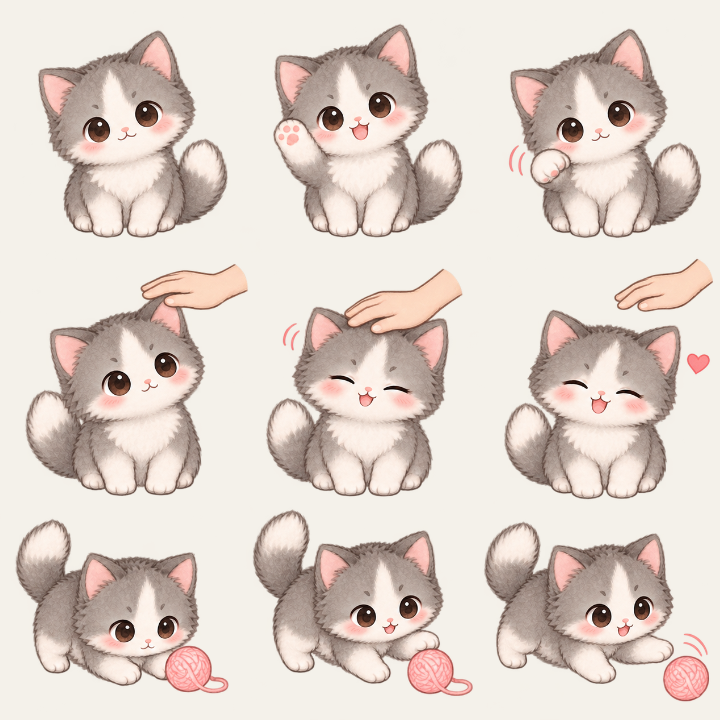
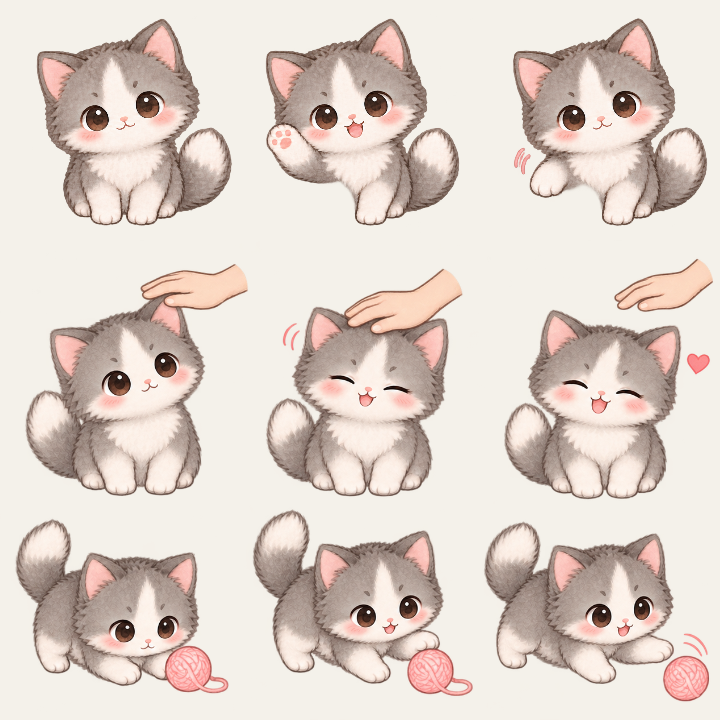
fix: correct wave animation anatomy

Changed region(s): [[0.7028, 0.0306, 1.0, 0.3361], [0.0306, 0.0306, 0.3361, 0.3361], [0.3667, 0.0306, 0.6417, 0.3361]]

diff --git a/src/Panel.xaml b/src/Panel.xaml
@@ -24,7 +24,7 @@ WindowStartupLocation="CenterScreen" Background="#F8F6F1" FontFamily="Microsoft 
 <Grid.RowDefinitions><RowDefinition Height="Auto"/><RowDefinition Height="22"/><RowDefinition Height="*"/><RowDefinition Height="Auto"/></Grid.RowDefinitions>
 <Grid>
 <StackPanel><TextBlock Text="T A M A G O   /   D E S K T O P   P E T" FontSize="10" Foreground="#89917B"/>
-<StackPanel Orientation="Horizontal" Margin="0,8,0,0"><TextBlock Text="玉子的小小世界" FontSize="26" FontWeight="SemiBold"/><Border Background="#ECEFE4" CornerRadius="8" Margin="14,5,0,5" Padding="10,4"><TextBlock Text="会感应你了 · v0.5" Foreground="#748263" FontSize="10"/></Border></StackPanel>
+<StackPanel Orientation="Horizontal" Margin="0,8,0,0"><TextBlock Text="玉子的小小世界" FontSize="26" FontWeight="SemiBold"/><Border Background="#ECEFE4" CornerRadius="8" Margin="14,5,0,5" Padding="10,4"><TextBlock Text="会感应你了 · v0.5.1" Foreground="#748263" FontSize="10"/></Border></StackPanel>
 <TextBlock Text="你忙你的，我会乖乖陪着你。" Margin="0,8,0,0" Foreground="#99938A" FontSize="12"/>
 </StackPanel>
 <Button x:Name="HidePanel" Content="收起面板 ↘" HorizontalAlignment="Right" VerticalAlignment="Top" Margin="0,7,0,0" Padding="14,9" Background="#F8F6F1"/>

diff --git a/src/App.cs b/src/App.cs
@@ -15,8 +15,8 @@ using System.Windows.Media.Imaging;
 using System.Windows.Threading;
 using Forms=System.Windows.Forms;
 
-[assembly: AssemblyVersion("0.5.0.0")]
-[assembly: AssemblyFileVersion("0.5.0.0")]
+[assembly: AssemblyVersion("0.5.1.0")]
+[assembly: AssemblyFileVersion("0.5.1.0")]
 
 namespace Tamago {
     static class Program {
@@ -67,8 +67,10 @@ namespace Tamago {
     public sealed class InteractionBank {
         public readonly BitmapSource[] Frames=new BitmapSource[8];
         public readonly BitmapSource[,] AnimationFrames=new BitmapSource[3,3];
+        public readonly BitmapSource[] WaveAnimationFrames=new BitmapSource[3];
         public readonly BitmapSource Atlas;
         public readonly BitmapSource AnimationAtlas;
+        public readonly BitmapSource WaveAnimationAtlas;
         public InteractionBank() {
             using(Stream input=Assembly.GetExecutingAssembly().GetManifestResourceStream("tamago-interactions.png")) {
                 if(input==null)throw new FileNotFoundException("缺少互动动作素材，请重新运行 build.ps1。");
@@ -91,6 +93,17 @@ namespace Tamago {
                 int right=(int)Math.Floor((col+1)*AnimationAtlas.PixelWidth/3.0), bottom=(int)Math.Floor((row+1)*AnimationAtlas.PixelHeight/3.0);
                 CroppedBitmap crop=new CroppedBitmap(AnimationAtlas,new Int32Rect(x,y,right-x,bottom-y));
                 crop.Freeze(); AnimationFrames[row,col]=crop;
+            }
+            using(Stream input=Assembly.GetExecutingAssembly().GetManifestResourceStream("tamago-wave-animation.png")) {
+                if(input==null)throw new FileNotFoundException("缺少挥手动画素材，请重新运行 build.ps1。");
+                PngBitmapDecoder decoder=new PngBitmapDecoder(input,BitmapCreateOptions.PreservePixelFormat,BitmapCacheOption.OnLoad);
+                WaveAnimationAtlas=decoder.Frames[0]; WaveAnimationAtlas.Freeze();
+            }
+            for(int col=0;col<3;col++) {
+                int x=(int)Math.Floor(col*WaveAnimationAtlas.PixelWidth/3.0);
+                int right=(int)Math.Floor((col+1)*WaveAnimationAtlas.PixelWidth/3.0);
+                CroppedBitmap crop=new CroppedBitmap(WaveAnimationAtlas,new Int32Rect(x,0,right-x,WaveAnimationAtlas.PixelHeight));
+                crop.Freeze(); WaveAnimationFrames[col]=crop;
             }
         }
     }
@@ -477,7 +490,8 @@ namespace Tamago {
             bool looking=gaze.Active&&!interaction.Active;
             int frame=petted&&!moving&&engine.Action!=PetAction.Jump?2:engine.Frame;
             if(interaction.Active) {
-                BitmapSource animation=interaction.HasAnimation?interactionSprites.AnimationFrames[interaction.AnimationRow,interaction.AnimationFrame]:interactionSprites.Frames[interaction.Frame];
+                BitmapSource animation=interaction.Kind==PetInteraction.Wave?interactionSprites.WaveAnimationFrames[interaction.AnimationFrame]:
+                    (interaction.HasAnimation?interactionSprites.AnimationFrames[interaction.AnimationRow,interaction.AnimationFrame]:interactionSprites.Frames[interaction.Frame]);
                 petImage.Source=animation;previewImage.Source=animation;
             } else {
                 petImage.Source=sprites.Frames[frame];previewImage.Source=sprites.Frames[frame];
@@ -554,6 +568,9 @@ namespace Tamago {
                     if(interactionSprites.AnimationFrames[row,col].PixelWidth<1||interactionSprites.AnimationFrames[row,col].PixelHeight<1)
                         throw new Exception("空互动动画帧");
                 checks.Add("PASS all 9 interaction animation frames decode");
+                foreach(BitmapSource frame in interactionSprites.WaveAnimationFrames)
+                    if(frame.PixelWidth<1||frame.PixelHeight<1)throw new Exception("空挥手修复动画帧");
+                checks.Add("PASS all 3 corrected wave animation frames decode");
                 engine.SetAction(PetAction.Idle,false);engine.Automatic=true;Refresh();ApplyLayout();
                 TestInteractionUi(checks);
                 CaptureInteractionSheet(Path.Combine(output,"interaction-preview.png"));
@@ -723,8 +740,10 @@ namespace Tamago {
             using(DrawingContext dc=visual.RenderOpen()) {
                 dc.DrawRectangle(Brush("#F4F1EA"),null,new Rect(0,0,720,720));
                 for(int row=0;row<3;row++) {
-                    for(int col=0;col<3;col++)
-                        dc.DrawImage(interactionSprites.AnimationFrames[row,col],new Rect(col*240,row*240,240,240));
+                    for(int col=0;col<3;col++) {
+                        BitmapSource frame=row==0?interactionSprites.WaveAnimationFrames[col]:interactionSprites.AnimationFrames[row,col];
+                        dc.DrawImage(frame,new Rect(col*240,row*240,240,240));
+                    }
                 }
             }
             RenderTargetBitmap bitmap=new RenderTargetBitmap(720,720,96,96,PixelFormats.Pbgra32);bitmap.Render(visual);

diff --git a/README.md b/README.md
@@ -1,10 +1,12 @@
-# 玉子 · 桌面宠物 v0.5
+# 玉子 · 桌面宠物 v0.5.1
 
 参照用户提供的灰白猫咪设定图制作的 Windows 桌宠。采用原生 C# / WPF，猫咪直接悬浮在桌面上，背景透明；附带独立动作面板与托盘菜单。
 
 ## 第五版：更自然的互动
 
 挥手、被摸摸和玩毛线球已经改为三帧连续动画：挥手会抬爪再收回，摸头有手掌靠近、轻抚和开心收尾，毛线球会从注视到伸爪拨动。其余互动仍保留原来的独立姿势。
+
+挥手素材已在 v0.5.1 修正：抬爪帧只保留一只抬起的前爪和一只落地的前爪，避免重复肢体。
 
 当鼠标靠近待机、坐下或趴着的玉子时，她会朝鼠标方向转身、轻轻歪头并在状态栏显示“正在看着你”。鼠标离开，或玉子正在走路、睡觉、跳跃、拖动和互动时，视线会平滑复位并让当前行为优先。
 
@@ -100,7 +102,8 @@
 - `src/Panel.xaml`：原生动作面板。
 - `assets/tamago-sprites.png`：内置 imagegen 生成的 16 帧透明动作图。
 - `assets/tamago-interactions.png`：内置 imagegen 生成的 8 帧透明互动动作图。
-- `assets/tamago-interaction-animations.png`：内置 imagegen 生成的挥手、摸头、毛线球三段三帧互动图。
+- `assets/tamago-interaction-animations.png`：内置 imagegen 生成的摸头、毛线球连续动作与原始挥手图集。
+- `assets/tamago-wave-animation.png`：修复肢体数量后的三帧挥手专用图；程序优先使用它。
 - `assets/PROMPT.md`：素材生成方式、参考图处理说明与完整提示词。
 - `build.ps1`：使用系统 .NET Framework 编译器构建。
 - `test.ps1`：编译并运行动作引擎验证和原生界面冒烟验证。
@@ -116,7 +119,7 @@ powershell.exe -NoProfile -ExecutionPolicy Bypass -File .\test.ps1
 
 ## 验证与范围
 
-已验证 8 个互动动作的按钮映射、17 个互动素材帧解码、被摸唤醒、移动暂停、阻塞暂停和生命周期；已验证三段互动的首帧、中间帧映射和鼠标感应的左右看向、歪头、离开复位；已验证自主互动的首次等待、随机间隔、忙碌暂缓、开关和连续防重复；验证日志与互动动作联系图位于 `output/`。
+已验证 8 个互动动作的按钮映射、9 个连续互动帧与 3 个修复后的挥手帧解码、被摸唤醒、移动暂停、阻塞暂停和生命周期；已验证三段互动的首帧、中间帧映射和鼠标感应的左右看向、歪头、离开复位；已验证自主互动的首次等待、随机间隔、忙碌暂缓、开关和连续防重复；验证日志与互动动作联系图位于 `output/`。
 
 已验证随机发言间隔、整轮文案覆盖、跨轮防重复、开关持久化、旧版设置兼容、手动预览、互动避让与气泡淡入淡出；六句文案在三种体型下均通过边界检查，收起面板后也通过真实计时器发言验证。
 

diff --git a/assets/PROMPT.md b/assets/PROMPT.md
@@ -21,3 +21,11 @@ Use case: stylized-concept. Asset type: transparent interaction sprite atlas for
 ```text
 Use case: illustration-story. Asset type: transparent PNG sprite atlas for a Windows desktop pet. Input image: the existing interaction atlas is a style and character reference only. Create one precise 3 columns by 3 rows animation atlas with nine evenly sized cells. Use the same fluffy grey-and-white kitten in every cell: round body, white face blaze and chest, brown eyes, pink ears and cheeks, soft hand-drawn pastel watercolor linework. Row 1, left to right: paw down preparing to wave; paw raised at the peak; paw returning with two subtle pink motion lines. Row 2: a gentle human hand approaches above the head; hand softly strokes the head while the kitten closes eyes happily; hand lifts away while the kitten keeps a delighted expression with one tiny pink heart. Row 3: kitten watches a small pink yarn ball; reaches one paw toward it; taps it so the ball rolls slightly with one short curved motion line. Exactly nine equal cells in a uniform 3×3 grid; each cell has a full kitten centered with consistent scale and transparent padding. Fully transparent background, no shadows, no ground, no checkerboard, no labels, no numbers, no borders, no grid lines, no logo, no watermark, no extra characters.
 ```
+
+## v0.5.1 挥手肢体修复
+
+原挥手的抬爪帧含有重复的落地前爪，因此新增 `tamago-wave-animation.png` 并由程序优先使用。图集为一行三帧：静止、抬爪、收回；抬爪帧严格只有一只抬起的前爪和一只落地的前爪。
+
+```text
+Use case: precise-object-edit. Asset type: transparent three-frame waving kitten animation. The exact character and watercolor style are preserved. Cell 1 has both front paws on the ground. In cells 2 and 3 there are exactly TWO visible front paws: one raised or lowering paw on the viewer's left and one grounded paw on the viewer's right. Remove the duplicate grounded paw under the raised limb and leave blank space there. Every kitten has exactly four paws total. No extra legs, floating paws, duplicate limbs, props, text, borders, grid, shadow, or watermark. Keep alpha transparency.
+```
